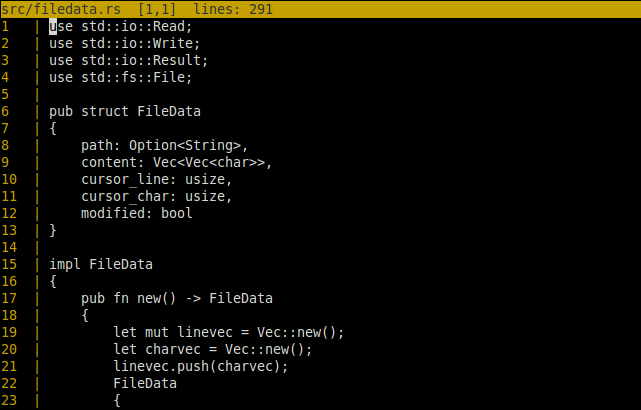
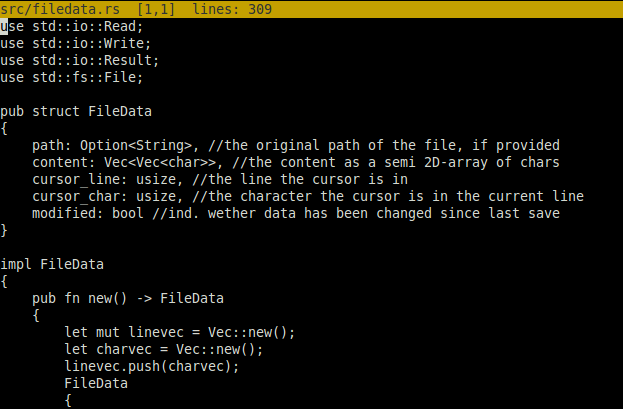
changed rendering, longer lines are scrolled instead of wrapped, improved cursor movement performance

Changed region(s): [[0.0, 0.0, 0.9454, 0.9976]]

diff --git a/src/display.rs b/src/display.rs
@@ -8,6 +8,7 @@ use std::collections::VecDeque;
 use std::path::Path;
 
 pub const COLOR: Color = Color::Yellow;
+pub const TAB_SIZE: isize = 4;
 
 pub struct Display
 {
@@ -17,13 +18,15 @@ pub struct Display
 	width: usize, //screen width
 	height: usize, //screen height
 	line_scroll: usize, //line number of the first display line
+	char_scroll: usize,
 	input_active: bool, //true -> write to commandline, false -> write to data buffer
 	input: FileData, //commandline buffer object
 	message_queue: VecDeque<String>, //list of messages to the user
 	yn_question: Option<YNQuestion>, //if not none -> question to the user
 	yn_question_state: bool, //if yn_question is answered with yes or no, true -> yes
-	//line_draw_log: Vec<(usize, usize)>, //an entry is created for every line, -> (line_wraps, length)
-	//draw_cursor_only: bool //is set by key handler if only the cursor should get updated (improve speed)
+	draw_cursor_only: bool, //don't update text buffer for speed
+	draw_xoff: isize,
+	screen_cursor_char: isize,
 }
 
 impl Display
@@ -39,11 +42,15 @@ impl Display
 			width: 0,
 			height: 0,
 			line_scroll: 0,
+			char_scroll: 0,
 			input_active: false,
 			input: FileData::new(),
 			message_queue: VecDeque::new(),
 			yn_question: None,
 			yn_question_state: false,
+			draw_cursor_only: false,
+			draw_xoff: 0,
+			screen_cursor_char: 0
 		}
 	}
 
@@ -72,7 +79,18 @@ impl Display
 					{
 						Some(character) => {
 							self.key_event(key, character);
-							self.draw_all();
+							self.draw_cursor();
+							self.check_scroll();
+							self.draw_title();
+							if self.draw_cursor_only
+							{
+								self.rustbox.present();
+								self.draw_cursor_only = false;
+							}
+							else 
+							{
+								self.draw_all();    
+							}
 						},
 						None => {}
 					};
@@ -99,6 +117,33 @@ impl Display
 		self.height = height;
 	}
 
+	fn check_scroll(&mut self)
+	{
+		while self.data.get_cursor_line() < self.line_scroll
+		{
+			self.line_scroll -= 1;
+			self.draw_cursor_only = false;
+		}
+		while self.data.get_cursor_line() >= self.line_scroll + self.height - 1
+		{
+			self.line_scroll += 1;
+			self.draw_cursor_only = false;
+		}
+		//horizontal scroll
+		if self.screen_cursor_char < 0
+		{
+		    self.char_scroll = 0;
+		    self.draw_cursor_only = false;
+		}
+		self.draw_cursor();//recalc in case of switching from higher scroll to lesser scroll != 0
+		if self.screen_cursor_char >= self.width as isize
+		{
+			let delta = self.screen_cursor_char - self.width as isize + 1;
+			self.char_scroll += delta as usize;
+			self.draw_cursor_only = false;
+		}
+	}
+
 	//handle incoming events
 	fn key_event(&mut self, key: u16, character: char)
 	{
@@ -115,16 +160,6 @@ impl Display
 		{
 			self.execute_input();
 			return;
-		}
-
-		//vertical scrolling
-		if self.data.get_cursor_line() < self.line_scroll
-		{
-			self.line_scroll -= 1;
-		}
-		if self.data.get_cursor_line() >= self.line_scroll + self.height - 1
-		{
-			self.line_scroll += 1;
 		}
 
 		//ctrl keys
@@ -167,19 +202,23 @@ impl Display
 				if !self.input_active
 				{
 					mod_data.move_cursor_up();
+					self.draw_cursor_only = true;
 				}
 			},
 			65515 => { //left
 				mod_data.move_cursor_left();
+				self.draw_cursor_only = true;
 			},
 			65516 => { //down
 				if !self.input_active
 				{
 					mod_data.move_cursor_down();
+					self.draw_cursor_only = true;
 				}
 			},
 			65514 => { //right
 				mod_data.move_cursor_right();
+				self.draw_cursor_only = true;
 			},
 			127 => { //bsp
 				mod_data.backspace();
@@ -207,7 +246,7 @@ impl Display
 				mod_data.write_char(' '); //doesnt get recognized??
 			},
 			_ => {
-				if character.is_alphabetic() || (character.len_utf8() == 1 && key > 31) //filter out ^.. chars and others
+				if character.is_control() == false
 				{
 					mod_data.write_char(character);
 				}
@@ -294,11 +333,12 @@ impl Display
 		}
 		self.yn_question = None;
 	}
-	
+
 	fn draw_all(&mut self)
 	{
 		self.rustbox.clear();
 		self.draw_text();
+		self.draw_cursor();
 		self.draw_title();
 		self.draw_question();
 		self.draw_message();
@@ -374,53 +414,76 @@ impl Display
 		self.rustbox.print(0, 0, rustbox::RB_NORMAL, Color::Black, COLOR, &pad_to(title, self.width));
 	}
 
+	fn draw_cursor(&mut self)
+	{
+		let cursor_line = self.data.get_cursor_line() as isize - self.line_scroll as isize + 1;
+		let mut cursor_char = self.data.get_cursor_char() as isize;
+		
+		//take into account that tabs use more space
+		let cur_line = match self.data.get_line(self.data.get_cursor_line())
+		{
+			None => {return;},
+			Some(v) => v
+		};
+		let mut char_counter = 0;
+		for ch in cur_line
+		{
+			if char_counter >= self.data.get_cursor_char()
+			{
+				break;
+			}
+			char_counter += 1;
+			if ch == &'\t'
+			{
+				cursor_char += TAB_SIZE - 1;
+			}
+		}
+		let draw_x = self.draw_xoff - self.char_scroll as isize + cursor_char;
+		if cursor_line > 0 && draw_x >= 0
+		{
+			self.rustbox.set_cursor(draw_x, cursor_line);
+			
+		}
+		self.screen_cursor_char = draw_x;
+	}
+
 	//draw the editor pane
 	//differentiates between the on-screen and in-data position of the cursor
 	//cur_line_data, cur_char_data -> data pointer position
 	//cur_line, cur_char -> display pointer position
 	fn draw_text(&mut self)
 	{
-		let line_no_len = self.data.get_line_number_len();
 		let mut cur_line = 1;
 		let mut cur_line_data = self.line_scroll;
-		while cur_line < self.height
+		'line: while cur_line < self.height
 		{
-			let mut cur_char = line_no_len+3;
-			let mut cur_char_data = 0;
 			let line_content = match self.data.get_line(cur_line_data)
 			{
-				None => {break;},
+				None => {break 'line;},
 				Some(v) => v
 			};
-			let mut line_str = pad_to(format!("{} ", cur_line_data+1), line_no_len+1);
-			line_str.push('|');
-			self.rustbox.print(0, cur_line, rustbox::RB_NORMAL, COLOR, Color::Default, &line_str);
-			for ch in line_content
+			let mut cur_char = self.draw_xoff - self.char_scroll as isize;
+			let mut cur_char_data = 0;
+			'char: while cur_char < self.width as isize
 			{
-				if cur_char_data == self.data.get_cursor_char() && cur_line_data == self.data.get_cursor_line()
+				let char_content = match line_content.get(cur_char_data)
 				{
-					self.rustbox.set_cursor(cur_char as isize, cur_line as isize);
-				}
-				if ch != &'\t'
+					None => {break 'char;},
+					Some(v) => v
+				};
+				if char_content != &'\t'
 				{
-					self.rustbox.print(cur_char, cur_line, rustbox::RB_NORMAL, Color::White, Color::Default, &format!("{}",ch));
+					if cur_char >= self.draw_xoff
+					{
+						self.rustbox.print(cur_char as usize, cur_line, rustbox::RB_NORMAL, Color::White, Color::Default, &format!("{}", char_content));
+					}
+					cur_char += 1;
 				}
-				else 
+				else
 				{
-				    cur_char += 3;
+					cur_char += TAB_SIZE;
 				}
-				cur_char += 1;
 				cur_char_data += 1;
-				if cur_char >= self.width //wrap lines if they reach the end of the line
-				{
-					cur_line += 1;
-					cur_char = line_no_len+7;
-					self.rustbox.print(line_no_len+3, cur_line, rustbox::RB_NORMAL, COLOR, Color::Default, &format!("-->"));
-				}
-			}
-			if cur_char_data == self.data.get_cursor_char() && cur_line_data == self.data.get_cursor_line()
-			{
-				self.rustbox.set_cursor(cur_char as isize, cur_line as isize);
 			}
 			cur_line += 1;
 			cur_line_data += 1;

diff --git a/src/filedata.rs b/src/filedata.rs
@@ -125,10 +125,10 @@ impl FileData
 		self.content.len()
 	}
 
-	pub fn get_line_number_len(&self) -> usize
+	/*pub fn get_line_number_len(&self) -> usize
 	{
 		format!("{}", self.get_lines()).len()
-	}
+	}*/
 
 	pub fn is_modified(&self) -> bool
 	{
